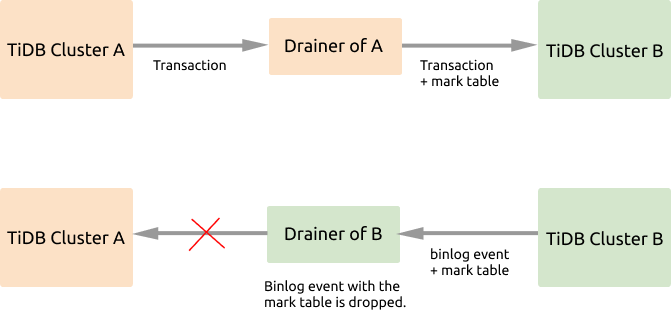
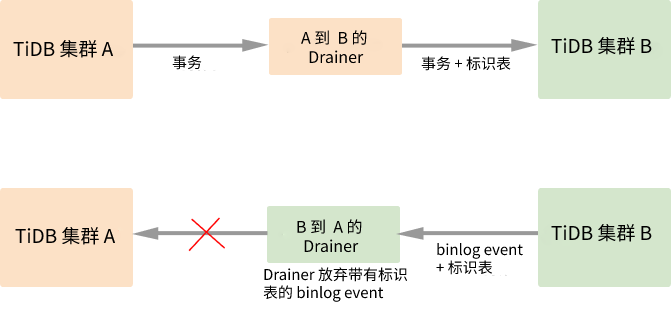
tidb-binlog: change bidirectional replication file name and image (#2549)
* tidb-binlog: change bidirectional replicaition doc name and image

* update image

* address comments

* Apply suggestions from code review

diff --git a/reference/tidb-binlog/bidirectional-replication.md b/reference/tidb-binlog/bidirectional-replication.md
@@ -1,6 +1,7 @@
 ---
 title: 集群间双向同步
 category: reference
+aliases: ['/docs-cn/dev/reference/tidb-binlog/bi-repl/']
 ---
 
 # 集群间双向同步
@@ -13,15 +14,15 @@ category: reference
 
 > **注意：**
 >
-> 写入两个集群的数据无冲突，即不会在两个集群修改表的同一主键或者唯一索引的行。
+> 集群间双向同步的前提条件是，写入两个集群的数据必须保证无冲突，即在两个集群中，不会同时修改同一张表的同一主键和具有唯一索引的行。
 
 使用场景示例图如下：
 
-![Architect](/media/binlog/bi-repl1.jpg)
+![使用场景示例图](/media/binlog/bi-repl1.jpg)
 
 ## 实现原理
 
-![Mark Table](/media/binlog/bi-repl2.png)
+![原理示例图](/media/binlog/bi-repl2.png)
 
 在 A 和 B 两个集群间开启双向同步，则写入集群 A 的数据会同步到集群 B 中，然后这部分数据又会继续同步到集群 A，这样就会出现无限循环同步的情况。如上图所示，在同步数据的过程中 Drainer 对 binlog 加上标记，通过过滤掉有标记的 binlog 来避免循环同步。详细的实现流程如下：
 
@@ -68,7 +69,7 @@ update drainer_repl_mark set val = val + 1 where id = ? && channel_id = ?;
 
 因为 Drainer 无法为 DDL 操作加入标识表，所以采用单向同步的方式来同步 DDL 操作。
 
-集群 A 到集群 B 开启 DDL 同步，集群 B 到集群 A 关闭 DDL 同步。DDL 操作全部在 A 上执行。
+比如集群 A 到集群 B 开启了 DDL 同步，则集群 B 到集群 A 会关闭 DDL 同步。即 DDL 操作全部在 A 上执行。
 
 > **注意：**
 >

diff --git a/TOC.md b/TOC.md
@@ -321,7 +321,7 @@
     - [增量恢复](/reference/tidb-binlog/reparo.md)
     - [Kafka 自定义开发](/reference/tidb-binlog/binlog-slave-client.md)
     - [TiDB Binlog Relay Log](/reference/tidb-binlog/relay-log.md)
-    - [集群间双向同步](/reference/tidb-binlog/bi-repl.md)
+    - [集群间双向同步](/reference/tidb-binlog/bidirectional-replication.md)
     - [术语表](/reference/tidb-binlog/glossary.md)
     + 故障诊断
       - [故障诊断](/reference/tidb-binlog/troubleshoot/binlog.md)
